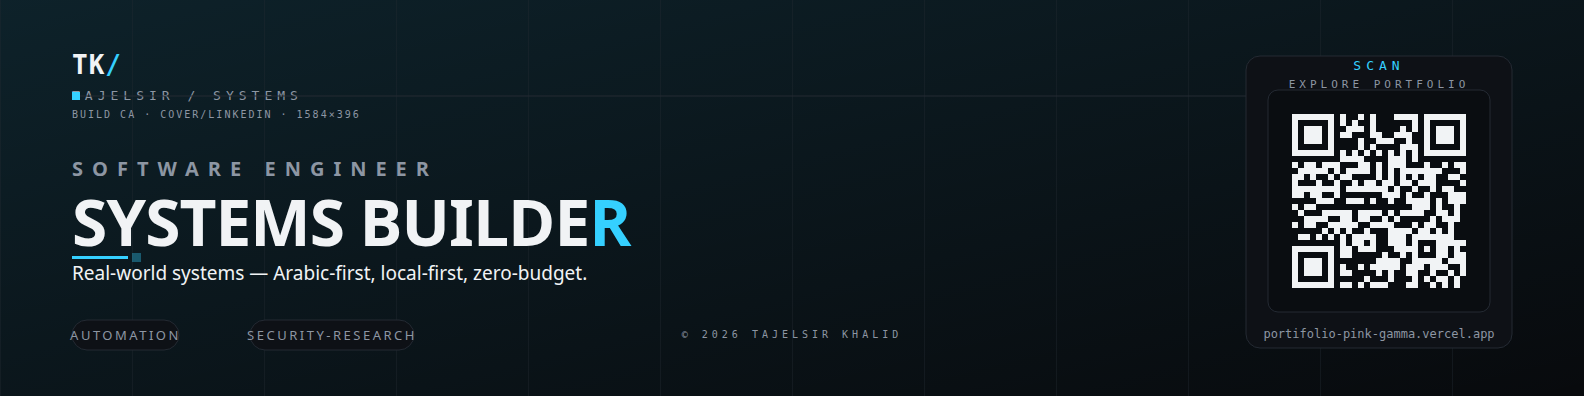
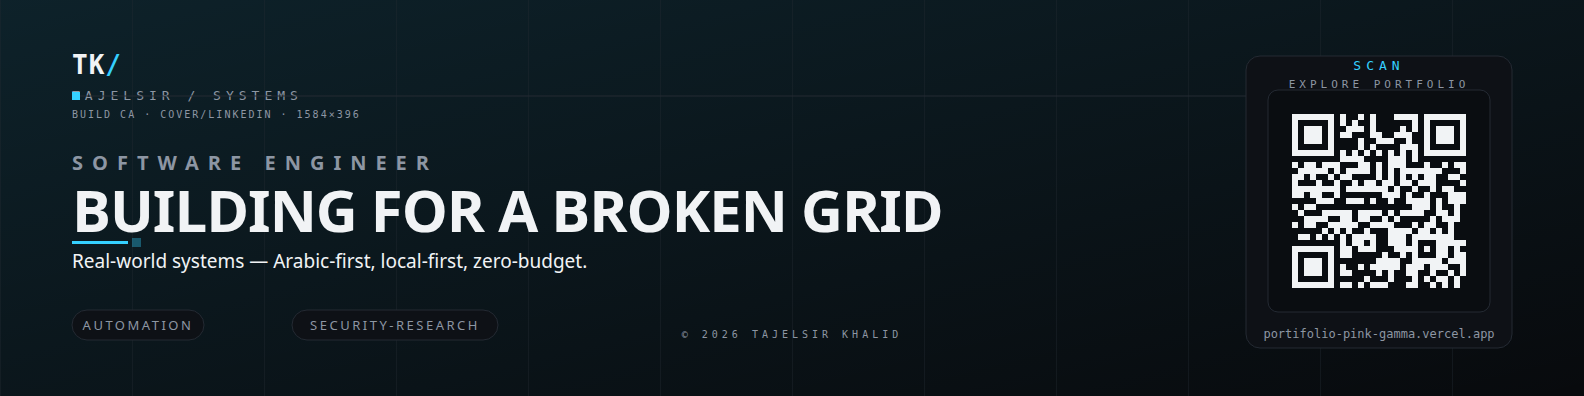
brand: Manrope + Noto Kufi Arabic fonts, tagline -> BUILDING FOR A BROKEN GRID (hero, role, covers, OG), locale-aware social images

diff --git a/app/[lang]/layout.tsx b/app/[lang]/layout.tsx
@@ -1,12 +1,12 @@
 import type { Metadata } from "next";
-import { Inter, JetBrains_Mono, IBM_Plex_Sans_Arabic } from "next/font/google";
+import { Manrope, JetBrains_Mono, Noto_Kufi_Arabic } from "next/font/google";
 import type { Locale } from "@/lib/i18n";
 import { isLocale, getLocaleDir, getDictionary } from "@/lib/i18n";
 import "../globals.css";
 import Cursor from "@/components/cursor";
 
-const inter = Inter({
-  variable: "--font-inter",
+const manrope = Manrope({
+  variable: "--font-manrope",
   subsets: ["latin"],
   display: "swap",
 });
@@ -17,7 +17,7 @@ const jetbrains = JetBrains_Mono({
   display: "swap",
 });
 
-const plexArabic = IBM_Plex_Sans_Arabic({
+const kufi = Noto_Kufi_Arabic({
   variable: "--font-arabic",
   subsets: ["arabic"],
   weight: ["400", "500", "600", "700"],
@@ -45,7 +45,7 @@ export async function generateMetadata({
       type: "website",
       images: [
         {
-          url: "/social-og.png",
+          url: locale === "ar" ? "/social-og-ar.png" : "/social-og.png",
           width: 1080,
           height: 1080,
           alt: "TAJELSIR / SYSTEMS — software for real-world constraints",
@@ -56,7 +56,7 @@ export async function generateMetadata({
       card: "summary_large_image",
       title: "TAJELSIR / SYSTEMS",
       description: dict.metadata.ogDescription,
-      images: ["/social-og.png"],
+      images: [locale === "ar" ? "/social-og-ar.png" : "/social-og.png"],
     },
   };
 }
@@ -76,7 +76,7 @@ export default async function RootLayout({
     <html
       lang={locale}
       dir={dir}
-      className={`${inter.variable} ${jetbrains.variable} ${plexArabic.variable} antialiased`}
+      className={`${manrope.variable} ${jetbrains.variable} ${kufi.variable} antialiased`}
       data-scroll-behavior="smooth"
     >
       <body className="bg-bg text-fg font-sans">

diff --git a/lib/i18n/ar.ts b/lib/i18n/ar.ts
@@ -21,7 +21,7 @@ export const dictionaryAr: Dictionary = {
 
   hero: {
     eyebrow: "مهندس برمجيات",
-    heading: ["باني", "الأنظمة"],
+    heading: ["بناءٌ", "لشبكةٍ مقطوعة"],
     blurb: "أبني برمجيات تعيش في الواقع بكل قيوده.",
     marketing: "أنظمة محلية أولًا، مصنوعة لتحتّمِل واقع إنترنت متقطعًا.",
     sub: "برمجيات · أتمتة · أمن",

diff --git a/app/globals.css b/app/globals.css
@@ -12,7 +12,7 @@
   --color-success: #69e6a5;
   --color-warning: #ffc857;
   --color-error: #ff667a;
-  --font-sans: var(--font-inter), var(--font-arabic), ui-sans-serif, system-ui, -apple-system, "Segoe UI", sans-serif;
+  --font-sans: var(--font-manrope), var(--font-arabic), ui-sans-serif, system-ui, -apple-system, "Segoe UI", sans-serif;
   --font-mono: var(--font-jetbrains), var(--font-arabic), ui-monospace, "Cascadia Mono", SFMono-Regular, Menlo, monospace;
 }
 

diff --git a/lib/i18n/dict.ts b/lib/i18n/dict.ts
@@ -19,7 +19,7 @@ export const dictionaryEn = {
 
   hero: {
     eyebrow: "SOFTWARE ENGINEER",
-    heading: ["SYSTEMS", "BUILDER"],
+    heading: ["BUILDING FOR", "A BROKEN GRID"],
     blurb: "I build software for real-world constraints.",
     marketing: "Local-first systems built to survive contact with reality.",
     sub: "Software · Automation · Security",

diff --git a/lib/site.ts b/lib/site.ts
@@ -3,7 +3,7 @@ export const site = {
   name: "TAJELSIR / SYSTEMS",
   engineer: "Tajelsir Khalid",
   role: "SOFTWARE ENGINEER",
-  role2: "SYSTEMS BUILDER",
+  role2: "BUILDING FOR A BROKEN GRID",
   blurb: "I build software for real-world constraints.",
   email: "tsgo132@gmail.com",
   linkedin:
